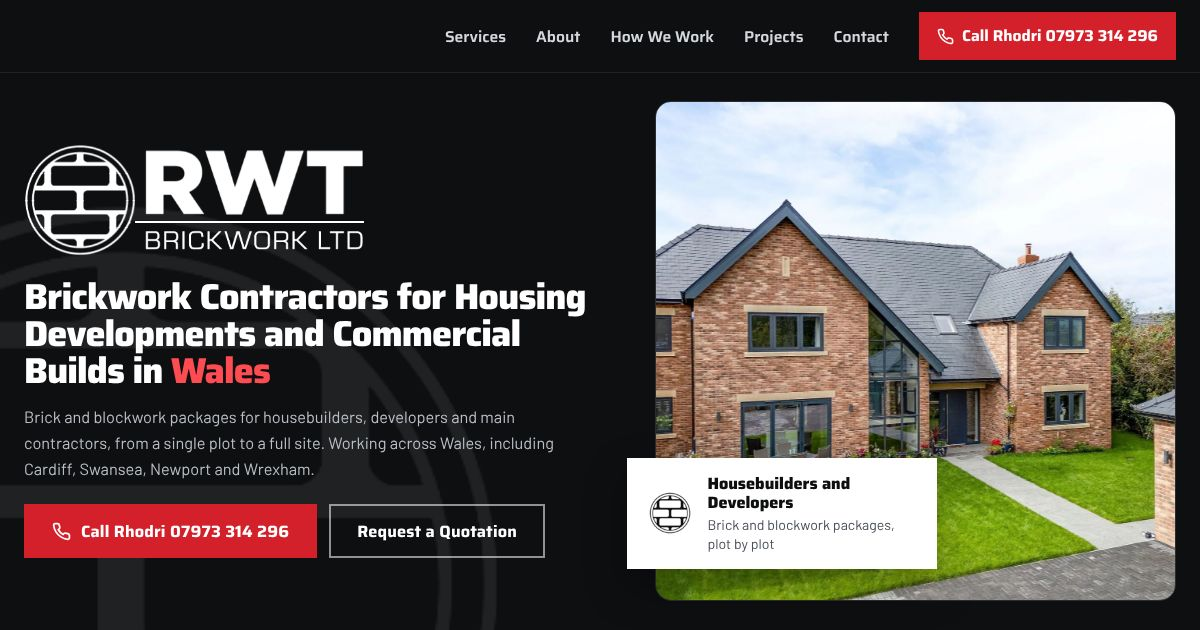
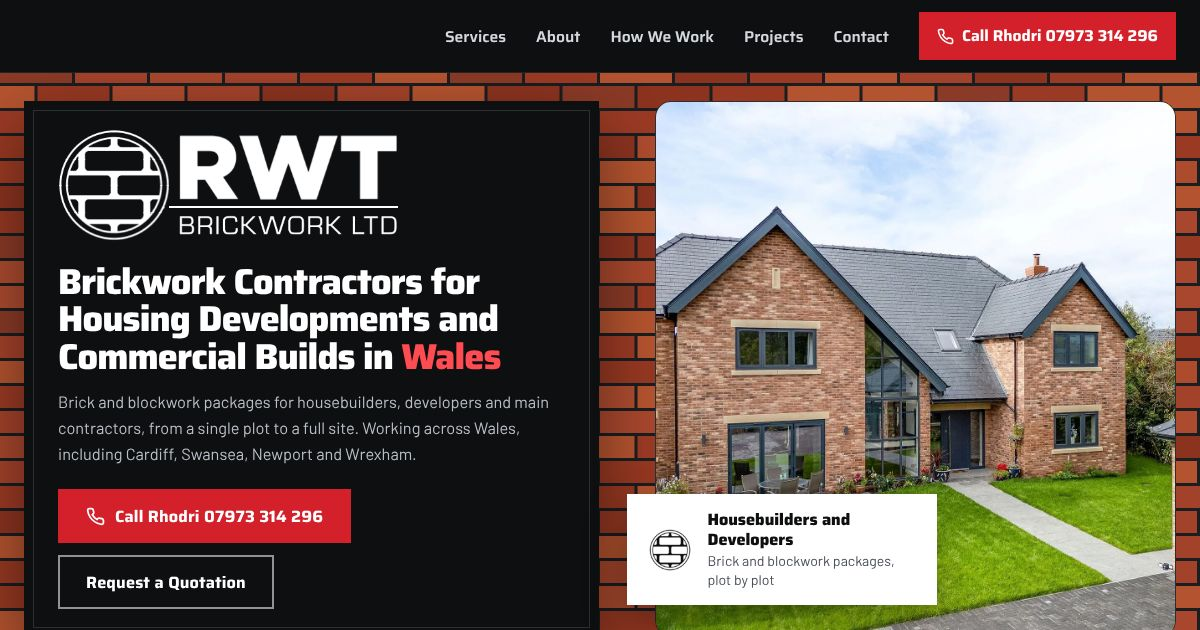
RWT Brickwork A: brick wall laid course by course behind the hero panel

diff --git a/rwt-brickwork/index.html b/rwt-brickwork/index.html
@@ -115,11 +115,17 @@ linear-gradient(90deg,var(--ink) 0 18px,transparent 18px 22px,var(--red) 22px 68
 
 /* ---------- hero: their crest is the fold ---------- */
 .hero{position:relative;background:var(--ink);color:#c4c9ce;overflow:hidden;display:flex;flex-direction:column}
-.ghost{position:absolute;width:760px;height:760px;left:-260px;bottom:-330px;opacity:.08;pointer-events:none}
-.ghost img{width:100%;height:100%;animation:breathe 14s ease-in-out infinite alternate}
-@keyframes breathe{from{transform:scale(1)}to{transform:scale(1.06)}}
-.hero-grid{position:relative;display:grid;grid-template-columns:1.05fr .95fr;gap:56px;align-items:center;height:clamp(560px,calc(100vh - 72px),760px);padding-top:40px;padding-bottom:48px}
-.hero .mark{width:min(420px,100%);margin-bottom:34px;--t0:2.05s}
+/* the brick wall behind the fold, laid course by course from the bottom */
+.wall{position:absolute;inset:0;z-index:0;pointer-events:none;background:#1b1d20}
+.wall svg{display:block;width:100%;height:100%}
+.wall .crs{opacity:0;transform:translateY(-14px)}
+body.go .wall .crs{animation:courseOn .38s cubic-bezier(.3,1.3,.5,1) forwards;animation-delay:var(--d)}
+@keyframes courseOn{to{opacity:1;transform:none}}
+.hero-txt{position:relative;background:var(--ink);padding:40px 40px 38px;box-shadow:0 26px 60px rgba(0,0,0,.45)}
+.hero-txt::before{content:"";position:absolute;inset:9px;border:1px solid #2c3035;pointer-events:none}
+.hero-txt>*{position:relative}
+.hero-grid{position:relative;z-index:2;display:grid;grid-template-columns:1.05fr .95fr;gap:56px;align-items:center;height:clamp(560px,calc(100vh - 72px),760px);padding-top:40px;padding-bottom:48px}
+.hero .mark{width:min(400px,100%);margin-bottom:28px;--t0:2.05s}
 .hero h1{color:#fff;font-size:clamp(2.2rem,3.5vw,3.35rem);letter-spacing:-.025em;line-height:1.04}
 .hero h1 .acc{color:#ff4b52}
 .lede{margin-top:20px;font-size:1.1rem;line-height:1.6;color:#b9bfc5;max-width:560px}
@@ -282,6 +288,7 @@ footer{background:var(--ink);color:#9aa1a8;padding:64px 0 28px}
   .lede{margin-top:14px;font-size:1.02rem}
   .hero-cta{margin-top:22px}
   .hero-grid{padding-top:28px;padding-bottom:32px}
+  .hero-txt{padding:28px 34px 28px}
 }
 @media (max-width:1100px){
   .trust-in{grid-template-columns:repeat(3,1fr);row-gap:14px}
@@ -307,7 +314,10 @@ footer{background:var(--ink);color:#9aa1a8;padding:64px 0 28px}
   .hero-ph{height:auto}
   .hero-ph .ph{height:auto;aspect-ratio:16/11}
   .hero-badge{position:static;max-width:none;margin-top:12px;box-shadow:none}
-  .ghost{width:560px;height:560px;left:auto;right:-300px;top:40px;bottom:auto;opacity:.1}
+  .hero-grid.wrap{padding-left:14px;padding-right:14px}
+  .hero-txt{padding:26px 20px 24px}
+  .hero-txt::before{inset:6px}
+  .hero .mark{width:min(316px,100%)}
   .sec{padding:72px 0}
   .svc{padding-top:64px}
   .trust-in{grid-template-columns:1fr;padding-top:12px;padding-bottom:12px}
@@ -339,6 +349,7 @@ footer{background:var(--ink);color:#9aa1a8;padding:64px 0 28px}
 @media (prefers-reduced-motion:reduce){
   *,*::before,*::after{animation-duration:.01ms!important;animation-delay:0s!important;transition-duration:.01ms!important}
   .reveal{opacity:1;transform:none}
+  .wall .crs,body.go .wall .crs{animation:none!important;opacity:1;transform:none}
 }
 </style>
 </head>
@@ -371,7 +382,7 @@ footer{background:var(--ink);color:#9aa1a8;padding:64px 0 28px}
 
 <main id="top">
 <section class="hero" id="hero">
-  <div class="ghost" aria-hidden="true"><img src="roundel-light.png" alt=""></div>
+  <div class="wall" id="wall" aria-hidden="true"></div>
   <div class="wrap hero-grid">
     <div class="hero-txt">
       <div class="mark play" role="img" aria-label="RWT Brickwork LTD">
@@ -551,6 +562,23 @@ footer{background:var(--ink);color:#9aa1a8;padding:64px 0 28px}
   var W=atob('NDQ3OTczMzE0Mjk2'),wa=document.getElementById('fabWa');wa.href='https://wa.me/'+W+'?text='+encodeURIComponent('Hi, seen your website - ');wa.target='_blank';wa.rel='noopener';
   document.getElementById('formTimestamp').value=Date.now();
   var ph=document.getElementById('fPhone');ph.addEventListener('input',function(){ph.setCustomValidity('');});ph.addEventListener('invalid',function(){ph.setCustomValidity('Please enter a UK phone number, e.g. 07123 456789');});
+
+  /* the hero wall: stretcher bond courses, laid from the bottom up */
+  var wall=document.getElementById('wall'),hero=document.getElementById('hero');
+  var C=['#9b3a24','#a8472d','#8c3320','#b4532f','#963822','#a3422a','#8a3a26','#ad4b2f'];
+  function build(){
+    var w=hero.offsetWidth,h=hero.offsetHeight,bw=w<600?58:72,bh=w<600?18:22,j=3,cw=bw+j,ch=bh+j;
+    var rows=Math.ceil(h/ch)+1,cols=Math.ceil(w/cw)+2,s='<svg xmlns="http://www.w3.org/2000/svg" width="'+w+'" height="'+h+'" viewBox="0 0 '+w+' '+h+'">',seed=7;
+    function rnd(){seed=(seed*9301+49297)%233280;return seed/233280;}
+    for(var r=0;r<rows;r++){
+      var y=h-(r+1)*ch+j,off=(r%2)?-cw/2:0,d=(r*0.03).toFixed(2);
+      s+='<g class="crs" style="--d:'+d+'s">';
+      for(var c=0;c<cols;c++){s+='<rect x="'+(off+c*cw).toFixed(1)+'" y="'+y+'" width="'+bw+'" height="'+bh+'" fill="'+C[Math.floor(rnd()*C.length)]+'"/>';}
+      s+='</g>';
+    }
+    wall.innerHTML=s+'</svg>';
+  }
+  build();var lw=hero.offsetWidth;window.addEventListener('resize',function(){if(Math.abs(hero.offsetWidth-lw)>40){lw=hero.offsetWidth;build();}});
 
   var ld=document.getElementById('ld'),done=false;
   function start(){if(done)return;done=true;ld.classList.add('lift');document.body.classList.add('go');setTimeout(function(){ld.style.display='none';},650);}
